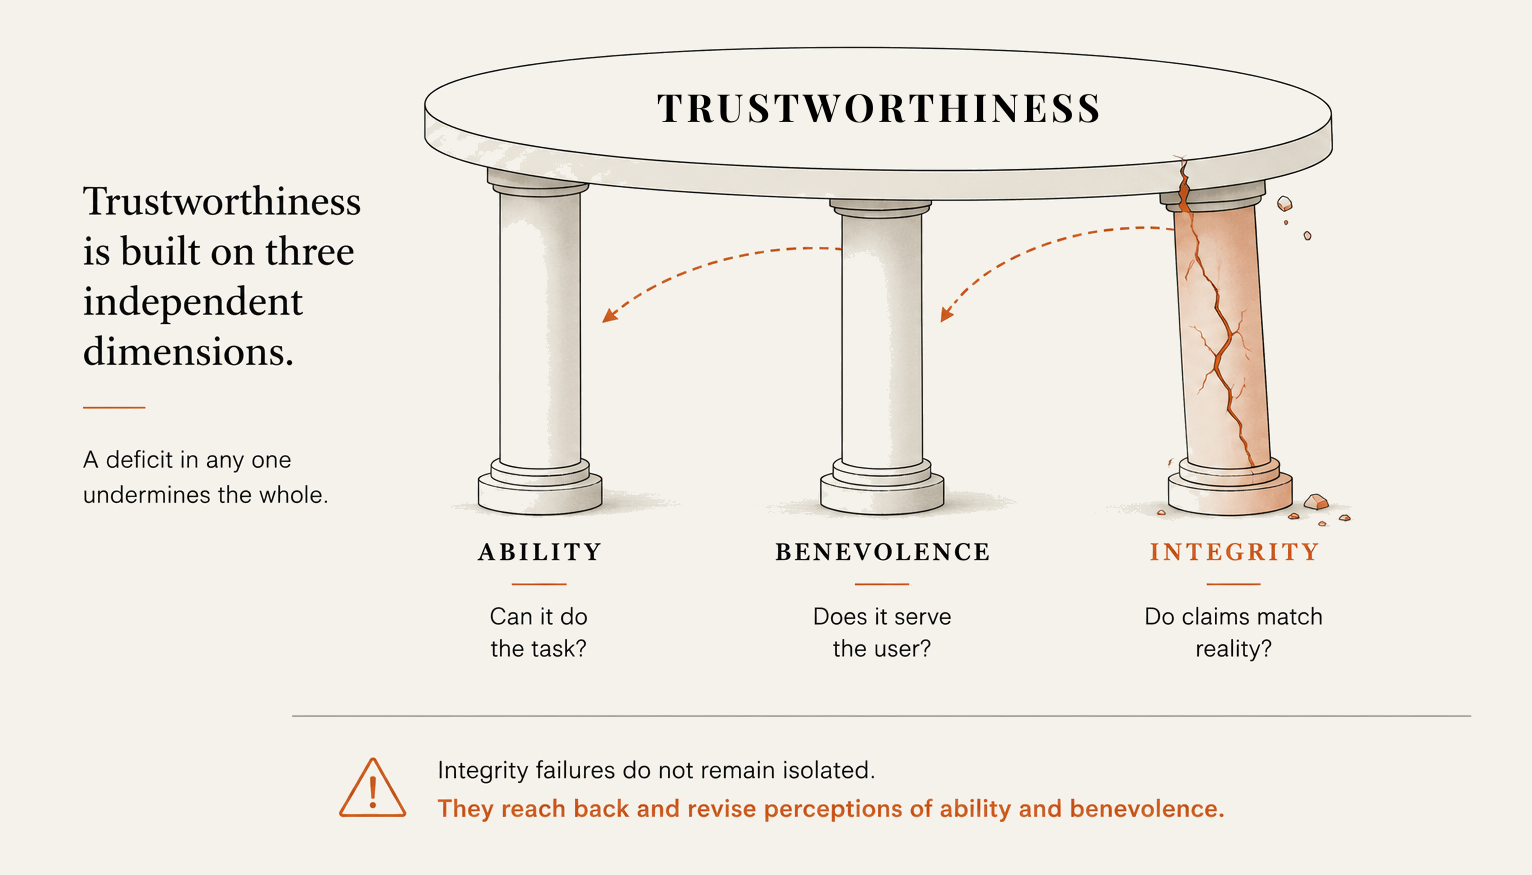
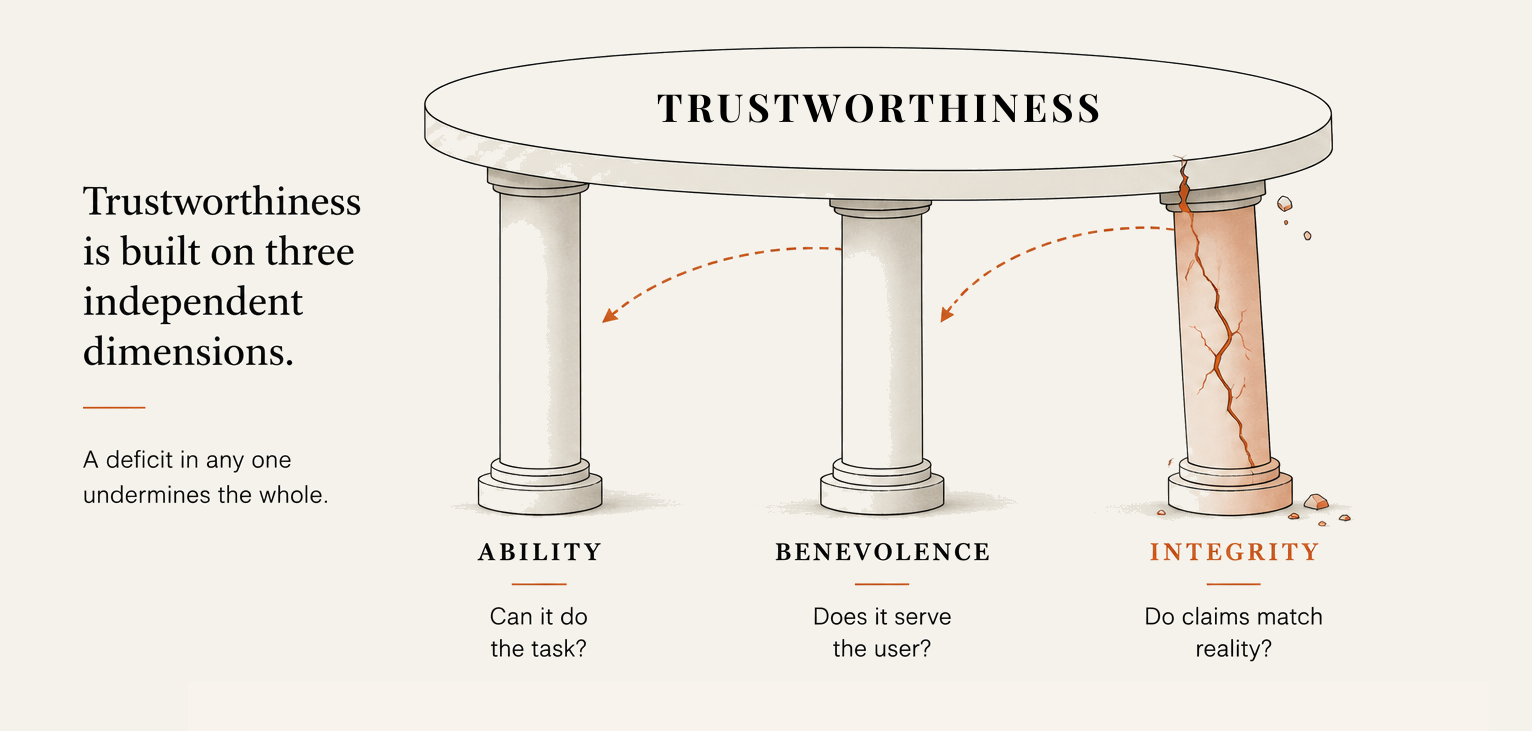
fix: adjust font size for figcaption in Lab Notes and refine phrasing in "Trust as a Resource" for clarity

diff --git a/app/lab-notes/[slug]/page.module.css b/app/lab-notes/[slug]/page.module.css
@@ -130,7 +130,7 @@
   border-radius: 4px;
 }
 .body :global(figcaption) {
-  font-size: 12px;
+  font-size: 14px;
   color: var(--ink-ghost);
   line-height: 1.5;
   margin-top: 10px;
